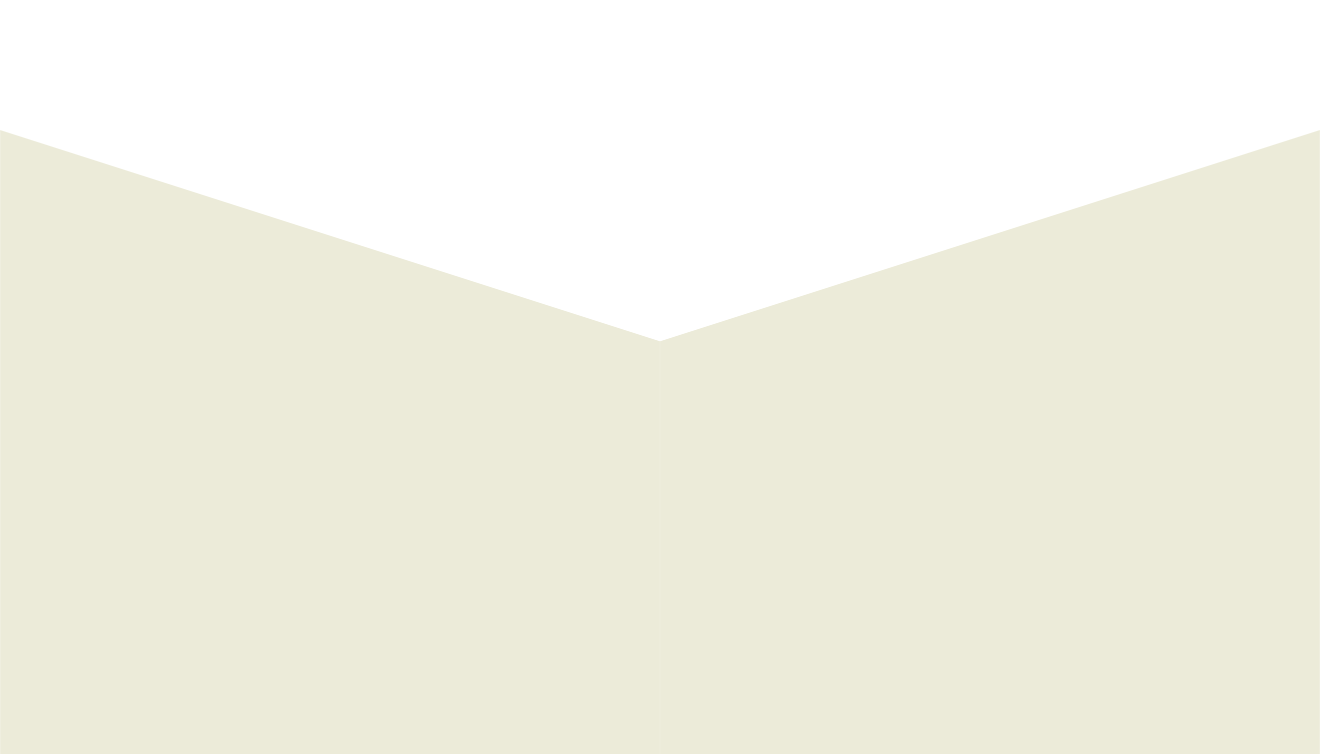
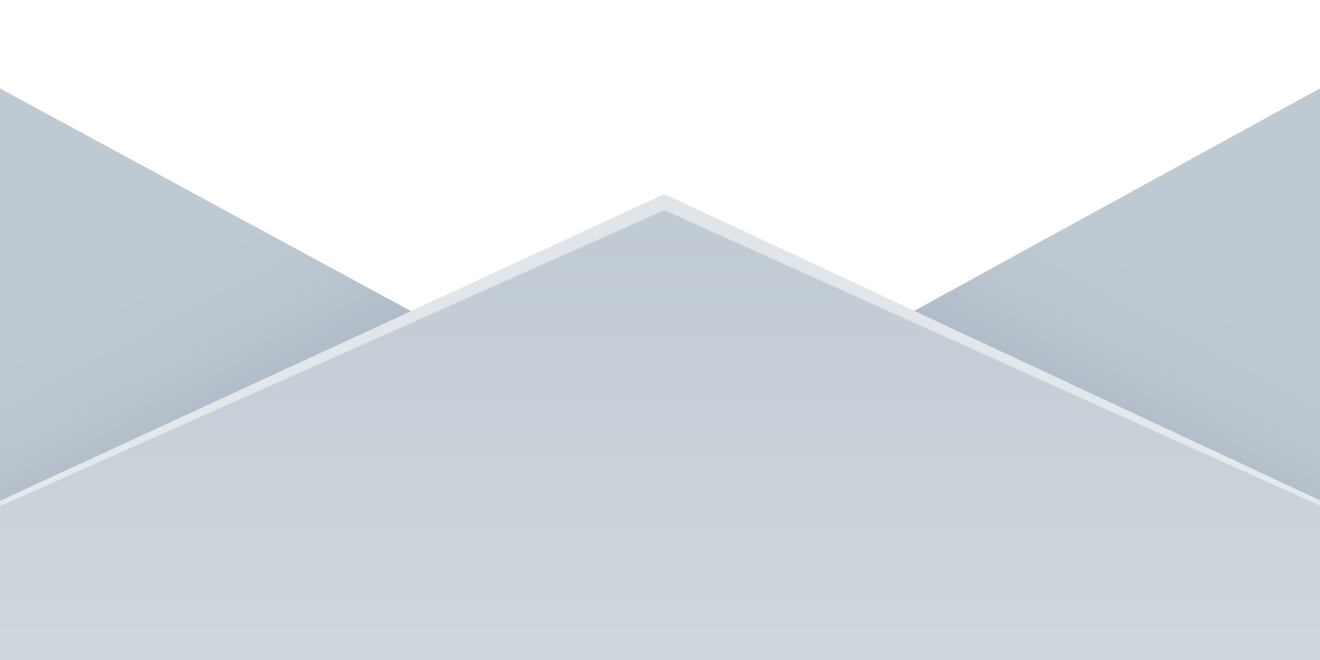
大致框架完成

diff --git a/assets/styles.css b/assets/styles.css
@@ -24,7 +24,7 @@ body{
 	--letterWidth: 50vw;
 }
 .main{
-	height: 1300vh;
+	height: 2400px;
 	transition: all .2s ease-out;
 }
 .bg{
@@ -77,45 +77,34 @@ body{
 .envelope-top{
 	position: absolute;
 	left: 0; top: 0;
-	width: 100%; height: 60%;
-	background: #f4f3e0;
+	width: 100%; height: 100%;
+	background: url(envelope-top.png) no-repeat center top;
 	transform-origin: top;
-	/* transition: all .1s ease-out; */
+	background-size: cover;
 	opacity: 1;
-	/* backdrop-filter: blur(4px); */
 }
 /* ~Letter */
 .letter{
 	display: block;
-	width: calc(var(--envelopeWidth) * .4); height: calc(var(--envelopeWidth) * .6);
+	width: calc(var(--envelopeWidth) * .4); height: calc(var(--envelopeWidth) * .78);
 	transition: all .1s ease-out;
 	background: #2a2a2a url(letter.jpg) center center no-repeat;
 	background-size: contain;
 	position: absolute;
 	transform: rotate(90deg);
 	transform-origin: 50% 50%;
-	left: calc(var(--envelopeWidth) * .3); top: calc(var(--envelopeWidth) * .05 * -1);
-}
-[data-stage = "4"] .letter{
-	transform: scale(2.6) translateY(-12vh) rotate(0) !important;
-	transition: all .6s cubic-bezier(.58,.03,.08,.99);
-	animation: .6s addMask ease-out both;
-}
-@keyframes addMask {
-	0%{}
-	55%{box-shadow:0px 43px 33px -11px rgba(0,0,0,.24),0px 21.50px 28.73px -11px rgba(0,0,0,.36);}
-	100%{box-shadow:0 0 0 30vh #2a2a2a;z-index: 30;}
+	left: calc(var(--envelopeWidth) * .3); top: calc(var(--envelopeWidth) * .14 * -1);
 }
 .envelope-cover{
 	position: absolute;
 	left: 0; top: 0;
 	width: 100%; height: 100%;
 	background: url(envelope-cover.png) bottom no-repeat;
-	background-size: contain;
+	background-size: cover;
 	pointer-events: none;
 }
 .envelope-bg{
-	background: #0f0;
+	background: #83919e;
 	box-shadow:0px 34px 33px -5px rgba(0,0,0,.29),0px 17px 28.73px -5px rgba(0,0,0,.44);
 	position: absolute;
 	left: 0; top: 0;
@@ -129,39 +118,33 @@ body{
 	position: absolute;
 	left: 0; top: 0;
 	width: 100%; height: 100%;
-	opacity: 0;
 }
 .light img{
 	object-fit: contain;
 	width: 100%;
 	height: 100%;
 }
-[data-stage = "4"] .light-1{
-	animation: neon-show-1 .6s ease-in-out .8s both;
-}
-[data-stage = "4"] .neon-2{
-	animation: neon-show-2 .8s ease-in-out .8s both;
-}
-@keyframes neon-show-1 {
+.neon-1{animation: neon-1 1.2s ease-in-out .6s infinite both;}
+.neon-2{animation: neon-1 1.2s ease-in-out 1.2s infinite both;}
+@keyframes neon-1 {
 	0%{opacity: 0;}
-	10%{opacity: .6;}
-	5%{opacity: .2;}
-	21%{opacity: .5;}
-	33%{opacity: .1;}
-	45%{opacity: .8;}
-	75%{opacity: .4;}
-	95%{opacity: .8;}
-	100%{opacity: 1;}
+	2%{opacity: .9;}
+	4%{opacity: .4;}
+	6%{opacity: .7;}
+	7%{opacity: .3;}
+	8%{opacity: 1;}
+	45%{opacity: 1;}
+	48%{opacity: .5;}
+	50%{opacity: 0;}
+	100%{opacity: 0;}
 }
-@keyframes neon-show-2 {
+[data-stage = "4"] .final > .inner{
+	animation: neon-show .2s ease-in-out 1.2s both;
+}
+@keyframes neon-show {
 	0%{opacity: 0;}
-	20%{opacity: .6;}
-	26%{opacity: .2;}
-	29%{opacity: .5;}
-	33%{opacity: .1;}
-	41%{opacity: .8;}
-	67%{opacity: .4;}
-	88%{opacity: .8;}
+	33%{opacity: .6;}
+	66%{opacity: .1;}
 	100%{opacity: 1;}
 }
 
@@ -176,7 +159,51 @@ body{
 	background: #0f0;
 	width: 1rem; height: 1rem;
 }
-
+/* ~Final */
+.final-wrapper{
+	pointer-events: none;
+	opacity: 0;
+		z-index: 90;
+}
+.final{
+	width: calc(var(--envelopeWidth) * .4); height: calc(var(--envelopeWidth) * .78);
+	width: 100vw; height: 195vw;
+	background: #2a2a2a url(letter.jpg) center center no-repeat;
+	background-size: contain;
+}
+.final > .inner{
+	width: 100%; height: 100%;
+}
 /* ~Z-index */
-
 [data-stage = "1"] .package-wrapper-3{display: flex;}
+[data-stage = "1"] .letter{
+	transform: rotate(90deg);
+	display: none;
+}
+[data-stage = "4"] .envolope-cover{
+	opacity: 0;
+	transition-duration: .2s;
+}
+[data-open = "0"] .letter{
+	transform: rotate(90deg) !important;
+	animation: none !important;
+}
+
+[data-stage = "4"] .letter{
+	transform: translateY(-50vh) scale(3.57) rotate(0) !important;
+	transition: all 1.2s cubic-bezier(.58,.03,.08,.99);
+	animation: 1.2s addMask ease-out both;
+}
+@keyframes addMask {
+	0%{}
+	55%{box-shadow:0px 43px 33px -11px rgba(0,0,0,.24),0px 21.50px 28.73px -11px rgba(0,0,0,.36);z-index: 6;}
+	100%{box-shadow:0 0 0 30vh #2a2a2a;z-index: 30;}
+}
+[data-stage = "4"] .final-wrapper{
+	animation: 1.2s showFinal ease-out both;
+}
+@keyframes showFinal {
+	0%{pointer-events: none;}
+	85%{opacity:0;pointer-events: auto;}
+	100%{opacity: 1;}
+}

diff --git a/assets/main.js b/assets/main.js
@@ -10,7 +10,6 @@ var envelopeDownDistance = 30
 var envelopeTilt =  55
 
 window.onscroll = function(){
-
   // Stage 1
   if (window.scrollY <= stage1Height) {
     if (stage != 1) {
@@ -51,7 +50,7 @@ window.onscroll = function(){
   else if (window.scrollY  <= stage1Height + stage2Height) {
     intoStage(2)
     var stage2Progress = ( window.scrollY - stage1Height ) / stage2Height
-
+    console.log(stage2Progress)
     // Envelope
     var envelopeMove = - envelopeUpDistance + stage2Progress * ( envelopeUpDistance + envelopeDownDistance)
     var envelopeRotate = (- stage2Progress / 2 + 0.5) * envelopeTilt
@@ -67,20 +66,29 @@ window.onscroll = function(){
       rotateX: envelopeTopRotate,
       duration: 30
     });
-    if (stage2Progress > 0.8) {
+    if (envelopeTopRotate > 90) {
       document.getElementById('envelope-top').style.zIndex = "2"
+    }
+    else {
+      document.getElementById('envelope-top').style.zIndex = "7"
+    }
+    if (stage2Progress > 0.8) {
       document.getElementById('letter').style.zIndex = "5"
       document.getElementById('envelope-cover').style.zIndex = "6"
+      document.getElementById('envelope-bg').style.zIndex = "4"
       anime({
         targets: '.letter',
         rotate: 75,
         translateX:  "-8vh",
         duration: 900
       });
-
+      document.getElementById('letter').dataset.open = 1
     }
     else {
-      document.getElementById('envelope-top').style.zIndex = "13"
+      document.getElementById('letter').style.zIndex = "5"
+      document.getElementById('envelope-cover').style.zIndex = "6"
+      document.getElementById('envelope-bg').style.zIndex = "4"
+      document.getElementById('letter').dataset.open = 0
       anime({
         targets: '.letter',
         rotate: 90,
@@ -116,12 +124,12 @@ function intoStage(n){
 }
 
 function openLetter(){
-  console.log("★")
   anime({
     targets: '.envelope',
-    translateY: envelopeDownDistance +"vh",
+    translateY: "50vh",
     rotate: 0,
-    duration: 30
+    duration: 600,
+    easing: 'easeOutQuart'
   });
   if (stage != 4) {
     intoStage(4)

diff --git a/index.html b/index.html
@@ -43,13 +43,9 @@
 			<div class="object envelope" id="envelope">
 				<div class="inner">
 
-					<div class="envelope-bg"></div>
+					<div class="envelope-bg" id="envelope-bg"></div>
 
-					<a class="letter" onclick="openLetter()" id="letter">
-						<div class="inner">
-							<div class="light light-1"><img src="assets/light-1.jpg"/></div>
-						</div>
-					</a>
+					<a class="letter" onclick="openLetter()" id="letter" data-open="0"></a>
 
 					<div class="envelope-cover" id="envelope-cover"></div>
 
@@ -60,11 +56,20 @@
 			</div>
 		</div>
 
+
+
 		<div class="wrapper package-wrapper package-wrapper-3">
+			<div class="object package package-2"></div>
+		</div>
 
-			<div class="object package package-2">
+		<div class="wrapper final-wrapper">
+			<div class="object final" id="final">
+				<div class="inner">
+					<div class="light light-1"><img src="assets/light-1.jpg"/></div>
+					<div class="light neon-1"><img src="assets/neon-1.png"/></div>
+					<div class="light neon-2"><img src="assets/neon-2.png"/></div>
+				</div>
 			</div>
-
 		</div>
 
 
